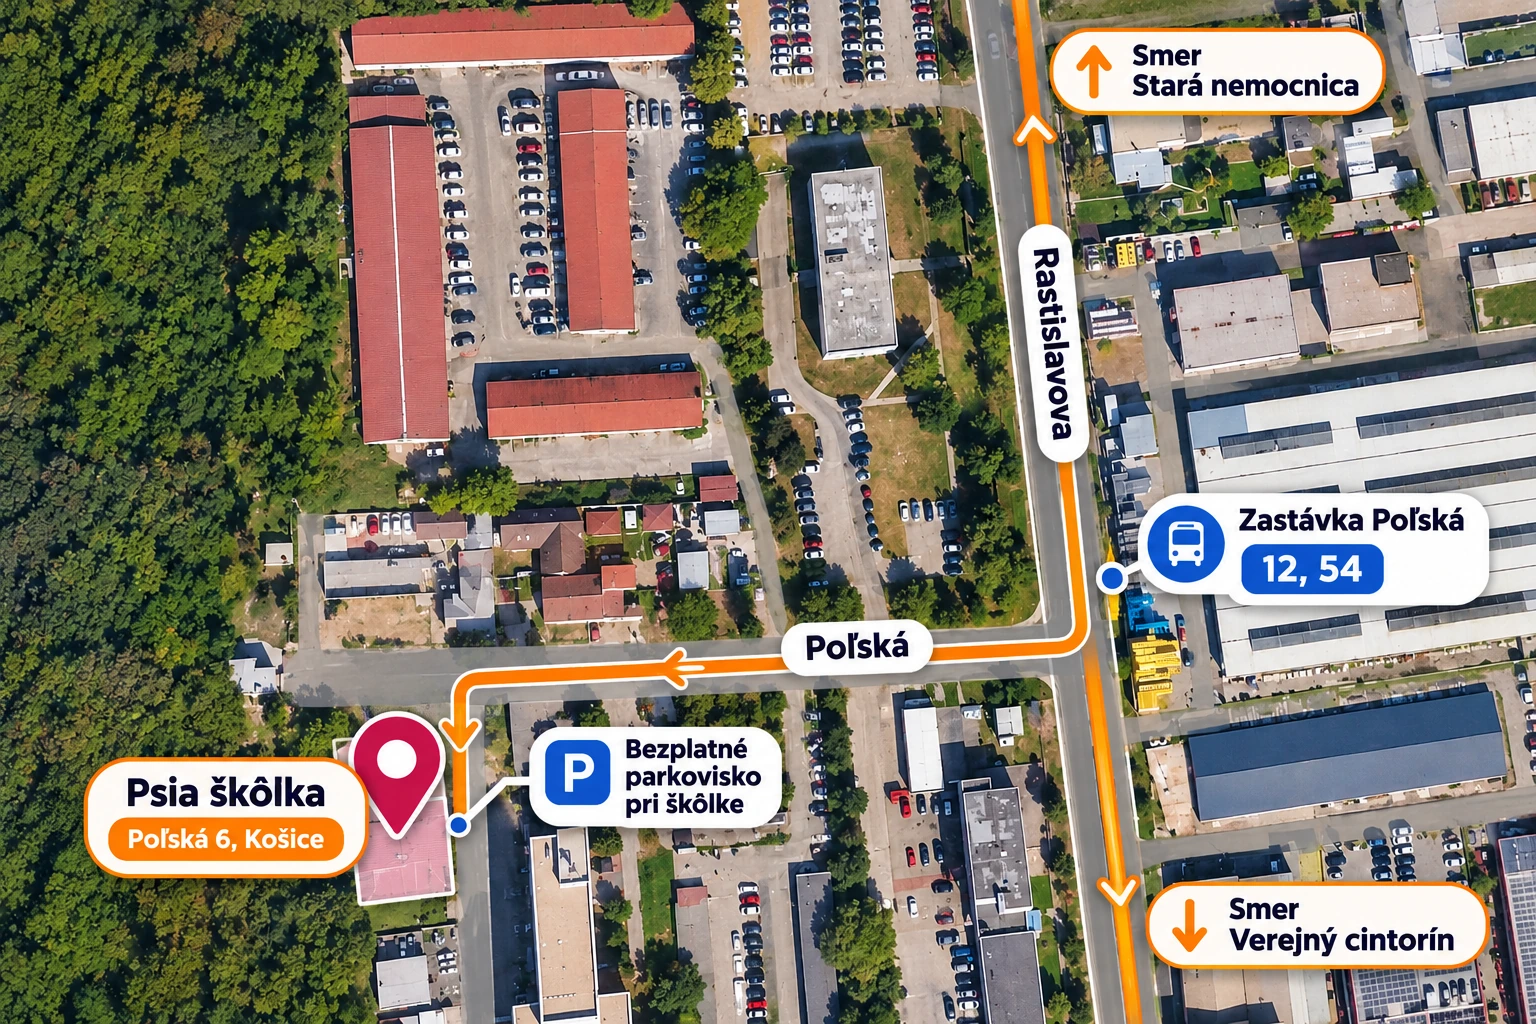
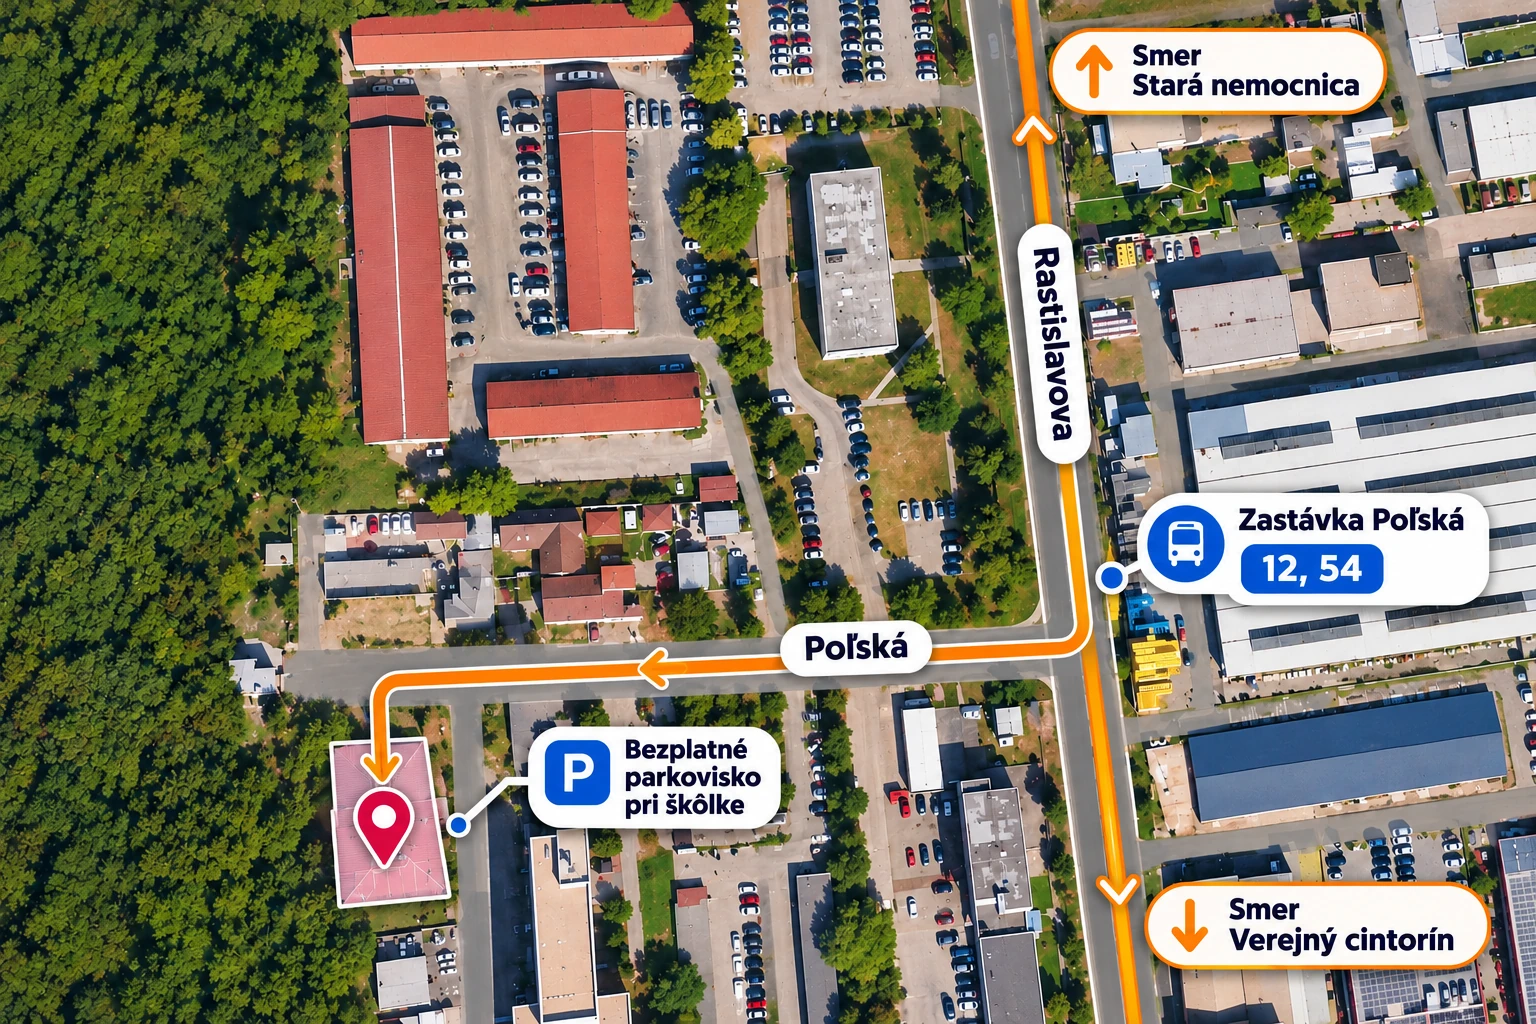
Move approved arrival illustration above both galleries; keep full Aria/FAQ reply and parking chips

diff --git a/src/components/site/AriaMosaicGallery.tsx b/src/components/site/AriaMosaicGallery.tsx
@@ -1,6 +1,6 @@
 import { useState } from "react";
 import { Car, MapPin } from "lucide-react";
-import { GALLERY, MAP_LINK, DAYCARE_LOCATION_ANSWER, DAYCARE_LOCATION_QUESTION } from "@/content/site";
+import { GALLERY, MAP_LINK, DAYCARE_LOCATION_WEB_COPY, DAYCARE_LOCATION_QUESTION } from "@/content/site";
 import { FaqAnswer } from "./ContextFaq";
 import { DaycareArrivalMap } from "./DaycareArrivalMap";
 import { PhotoLightbox } from "./PhotoLightbox";
@@ -48,7 +48,7 @@ export function AriaMosaicGallery({ paidLead = false }: { paidLead?: boolean }) 
         <h2 id="aria-mosaic-heading" className="section-title mt-2 text-center text-[clamp(22px,5.2vw,38px)]">{paidLead ? "Kde bude váš psík počas dňa?" : "Takto vyzerá Chvostíkovo"}</h2>
         {paidLead && (
           <div data-daycare-location-copy className="mx-auto mt-3 max-w-2xl space-y-2 text-center text-sm leading-relaxed text-forest/80 sm:text-base lg:max-w-none">
-            <FaqAnswer question={DAYCARE_LOCATION_QUESTION} answer={DAYCARE_LOCATION_ANSWER} compact />
+            <FaqAnswer question={DAYCARE_LOCATION_QUESTION} answer={DAYCARE_LOCATION_WEB_COPY} compact />
           </div>
         )}
         <div data-aria-location-chips className="mx-auto mt-4 grid max-w-md grid-cols-2 gap-2 sm:hidden">
@@ -61,11 +61,11 @@ export function AriaMosaicGallery({ paidLead = false }: { paidLead?: boolean }) 
             <Car className="size-4 shrink-0 text-coral" aria-hidden /> Bezplatné parkovanie
           </span>
         </div>
+        {paidLead && <DaycareArrivalMap className="mt-4 sm:mt-6" onOpen={() => void trackCookielessInteraction("nav_click", "lead_aria_location_poljska6", "sk")} />}
         <div className="mt-6 grid grid-cols-2 gap-2.5 sm:gap-4">
           <div className="grid gap-2.5 sm:gap-4">{left.map((photo, i) => tile(photo, i * 2, i))}</div>
           <div className="grid gap-2.5 pt-5 sm:gap-4 sm:pt-9">{right.map((photo, i) => tile(photo, i * 2 + 1, i))}</div>
         </div>
-        {paidLead && <DaycareArrivalMap className="mt-4 sm:mt-6" onOpen={() => void trackCookielessInteraction("nav_click", "lead_aria_location_poljska6", "sk")} />}
       </div>
       <PhotoLightbox photos={photos} active={selected} onChange={setSelected}
         onClose={() => setSelected(null)} />

diff --git a/src/components/site/Gallery.tsx b/src/components/site/Gallery.tsx
@@ -3,7 +3,7 @@ import { Car, MapPin, ChevronLeft, ChevronRight } from "lucide-react";
 import { FaqAnswer } from "./ContextFaq";
 import { DaycareArrivalMap } from "./DaycareArrivalMap";
 import { PhotoLightbox } from "./PhotoLightbox";
-import { GALLERY, MAP_LINK, DAYCARE_LOCATION_ANSWER, DAYCARE_LOCATION_QUESTION } from "@/content/site";
+import { GALLERY, MAP_LINK, DAYCARE_LOCATION_WEB_COPY, DAYCARE_LOCATION_QUESTION } from "@/content/site";
 import { highQualityMosaicSrc } from "./AriaMosaicGallery";
 import { SectionAmbientPaws } from "./SectionAmbientPaws";
 
@@ -97,7 +97,8 @@ export function Gallery({ language = "sk", homeMosaic = false }: { language?: "s
           </div>
         </div>
 
-        {homeMosaic && !isEnglish && <div data-daycare-location-copy className="mt-4 max-w-2xl text-sm leading-relaxed text-forest/80 sm:text-base lg:max-w-none"><FaqAnswer question={DAYCARE_LOCATION_QUESTION} answer={DAYCARE_LOCATION_ANSWER} compact /></div>}
+        {homeMosaic && !isEnglish && <div data-daycare-location-copy className="mt-4 max-w-2xl text-sm leading-relaxed text-forest/80 sm:text-base lg:max-w-none"><FaqAnswer question={DAYCARE_LOCATION_QUESTION} answer={DAYCARE_LOCATION_WEB_COPY} compact /></div>}
+        {homeMosaic && !isEnglish && <DaycareArrivalMap className="mt-4 sm:mt-6" />}
         {homeMosaic ? (
           <div data-home-spaces-mosaic className="mt-8 grid grid-cols-2 gap-3 lg:grid-cols-3 lg:gap-4">
             {photos.map((photo, i) => (
@@ -120,7 +121,6 @@ export function Gallery({ language = "sk", homeMosaic = false }: { language?: "s
                 ); })()}
               </Fragment>
             ))}
-            {!isEnglish && <DaycareArrivalMap className="col-span-2 lg:col-span-1 lg:aspect-[5/4]" />}
           </div>
         ) : (
         <div className="relative left-1/2 mt-8 w-[calc(100vw-24px)] -translate-x-1/2 sm:w-[calc(100vw-48px)]">

diff --git a/src/content/site.ts b/src/content/site.ts
@@ -9,6 +9,8 @@ export const MAP_LINK = "https://maps.app.goo.gl/xRzZ8fC3fT8MCzeM7?g_st=ic";
 // Canonical practical location copy shared by Aria, HOME FAQ and paid gallery.
 export const DAYCARE_LOCATION_QUESTION = "Kde sa škôlka nachádza?";
 export const DAYCARE_LOCATION_ANSWER = "Nájdete nás v Košiciach na Poľskej 6, medzi Starou nemocnicou a Verejným cintorínom.\n\nOdbočuje sa z ulice Rastislavova pri autoumyvárke.\nPriamo pri škôlke máme bezplatné parkovisko.\n\nAk prichádzate MHD, najbližšia je zastávka Poľská, kam premávajú autobusy 12 a 54.";
+// Gallery chips and illustration already show parking; keep the full location answer for FAQ and Aria.
+export const DAYCARE_LOCATION_WEB_COPY = DAYCARE_LOCATION_ANSWER.replace("\nPriamo pri škôlke máme bezplatné parkovisko.", "");
 export const INQUIRY_TITLE = "Chcete sa informovať o škôlke?";
 export const INQUIRY_SUBTITLE = "Vyplňte krátky nezáväzný formulár. Ozveme sa vám.";
 export const VISIT_INQUIRY_TITLE = "Máte záujem o návštevu?";

diff --git a/src/components/site/DaycareArrivalMap.tsx b/src/components/site/DaycareArrivalMap.tsx
@@ -11,7 +11,7 @@ export function DaycareArrivalMap({ className = "", onOpen }: { className?: stri
       <img src={arrivalMap} width={1536} height={1024} loading="lazy" decoding="async"
         alt="Orientačná ilustrovaná mapa príjazdu po Poľskej od Rastislavovej, zastávka Poľská (12, 54), parkovisko pri škôlke"
         className="block h-auto w-full object-contain lg:h-full" />
-      <span className="absolute left-2 top-2 rounded-full bg-white/95 px-2 py-1 text-[10px] font-semibold text-forest">Orientačná mapa</span>
+      <span className="absolute left-2 top-2 rounded-full bg-white/95 px-2 py-1 text-[10px] font-semibold text-forest">Otvoriť v Google Maps</span>
     </a>
   );
 }
